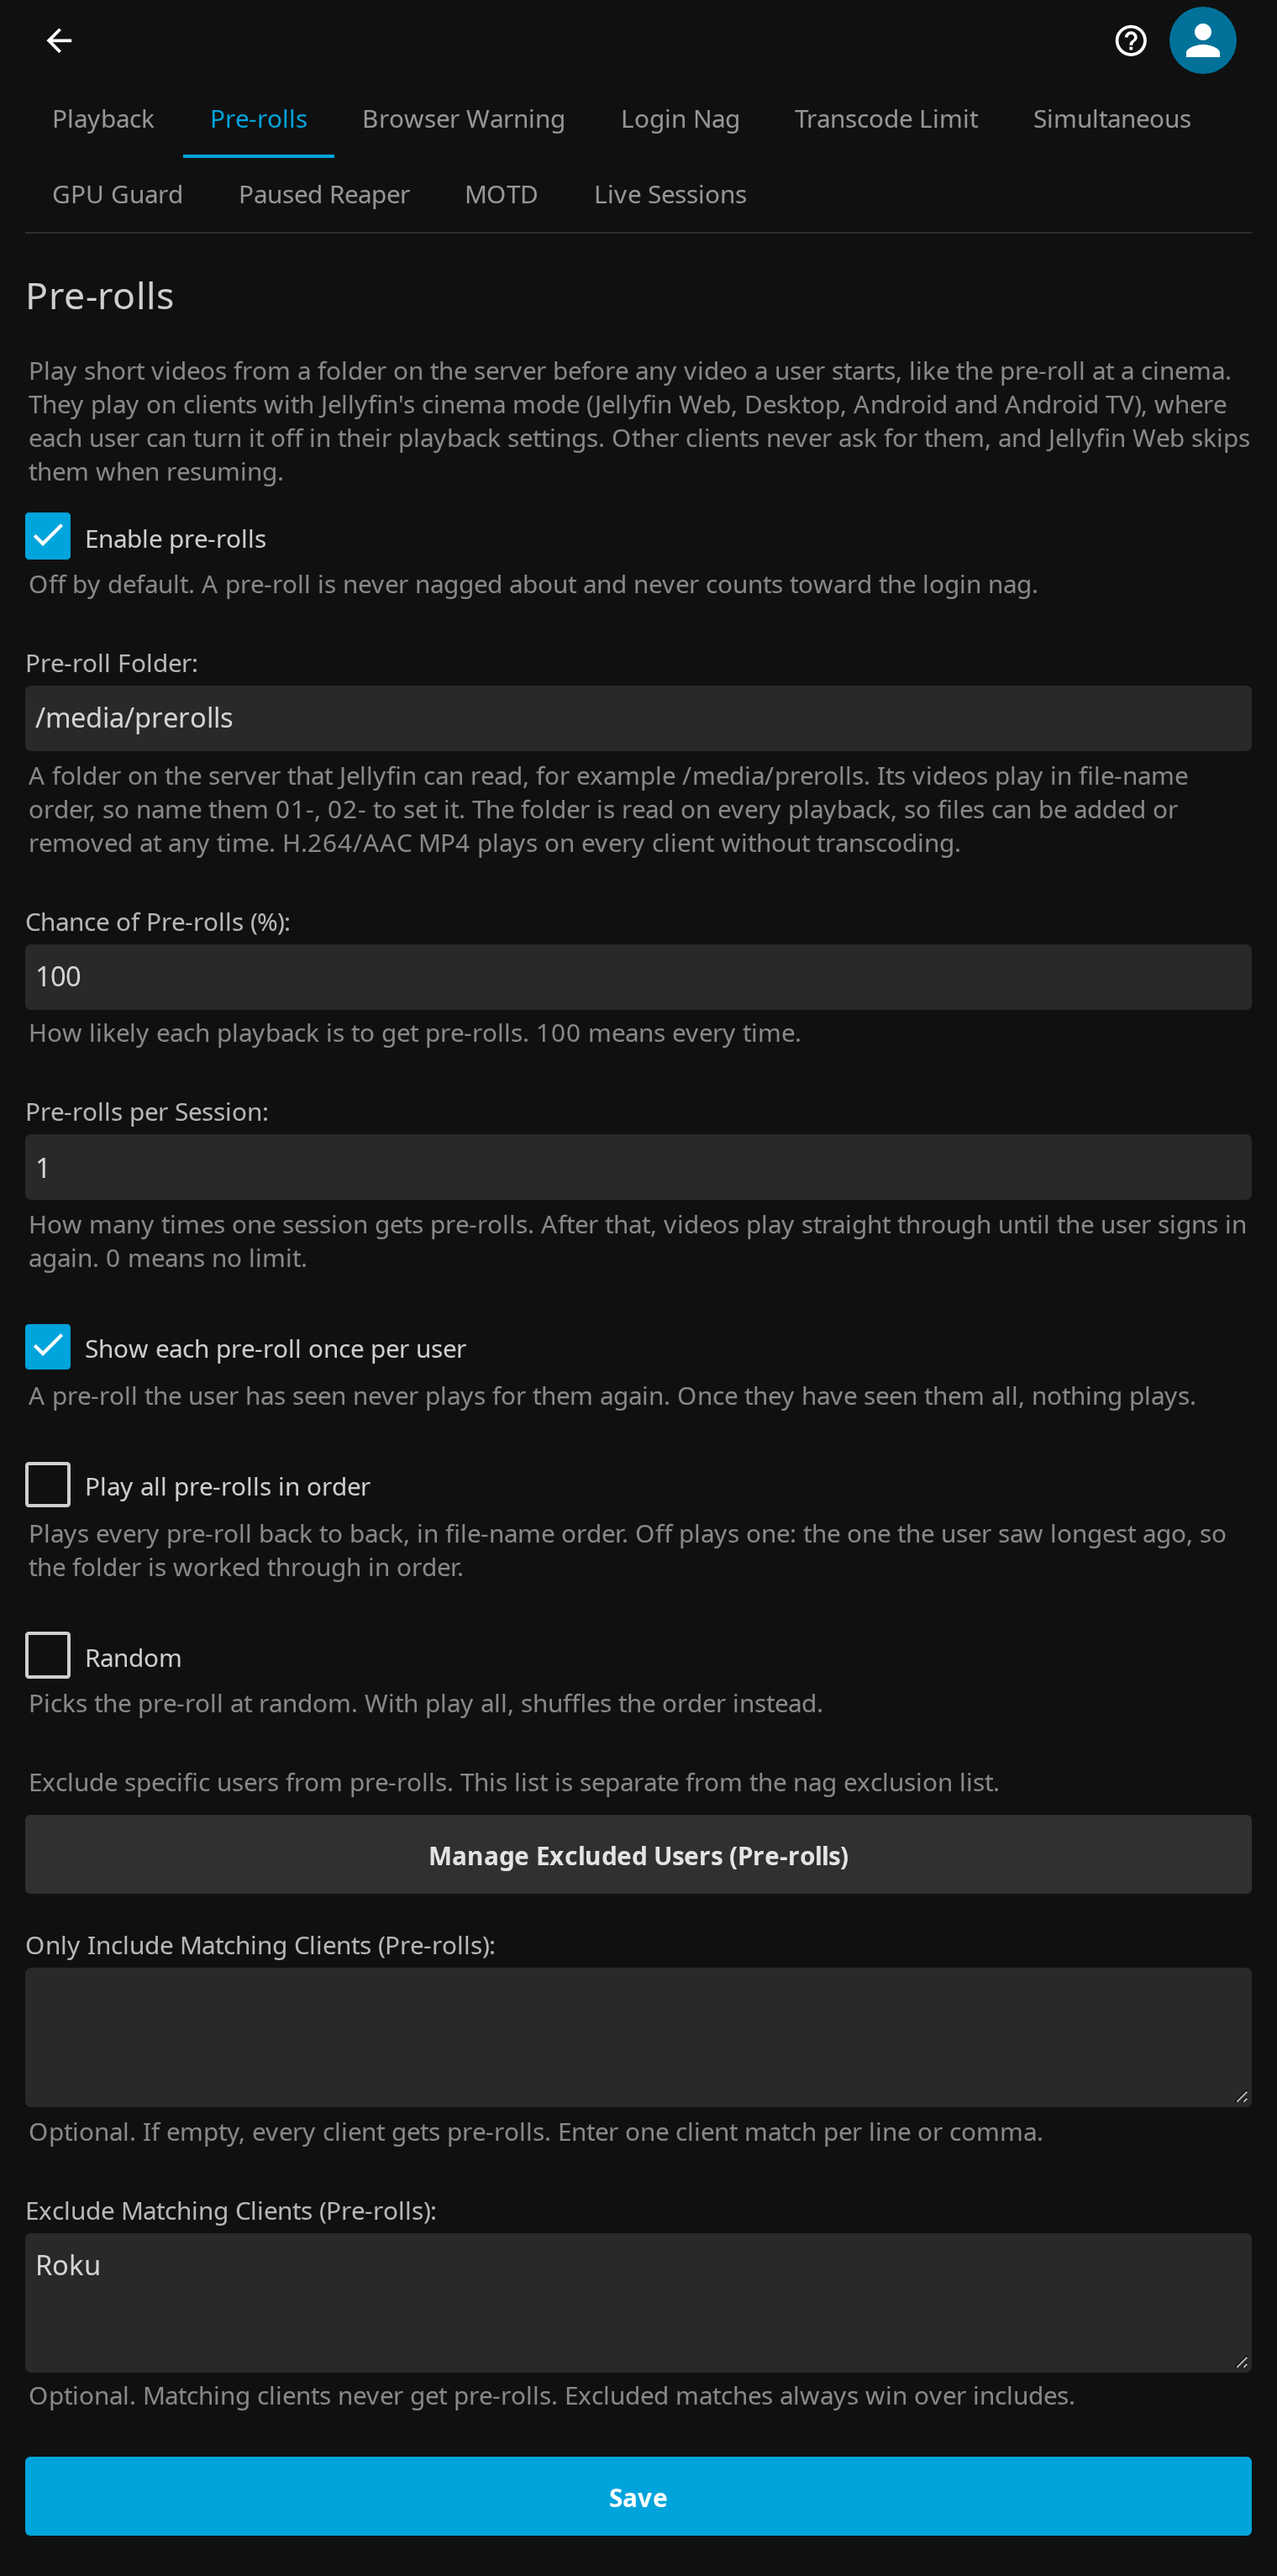
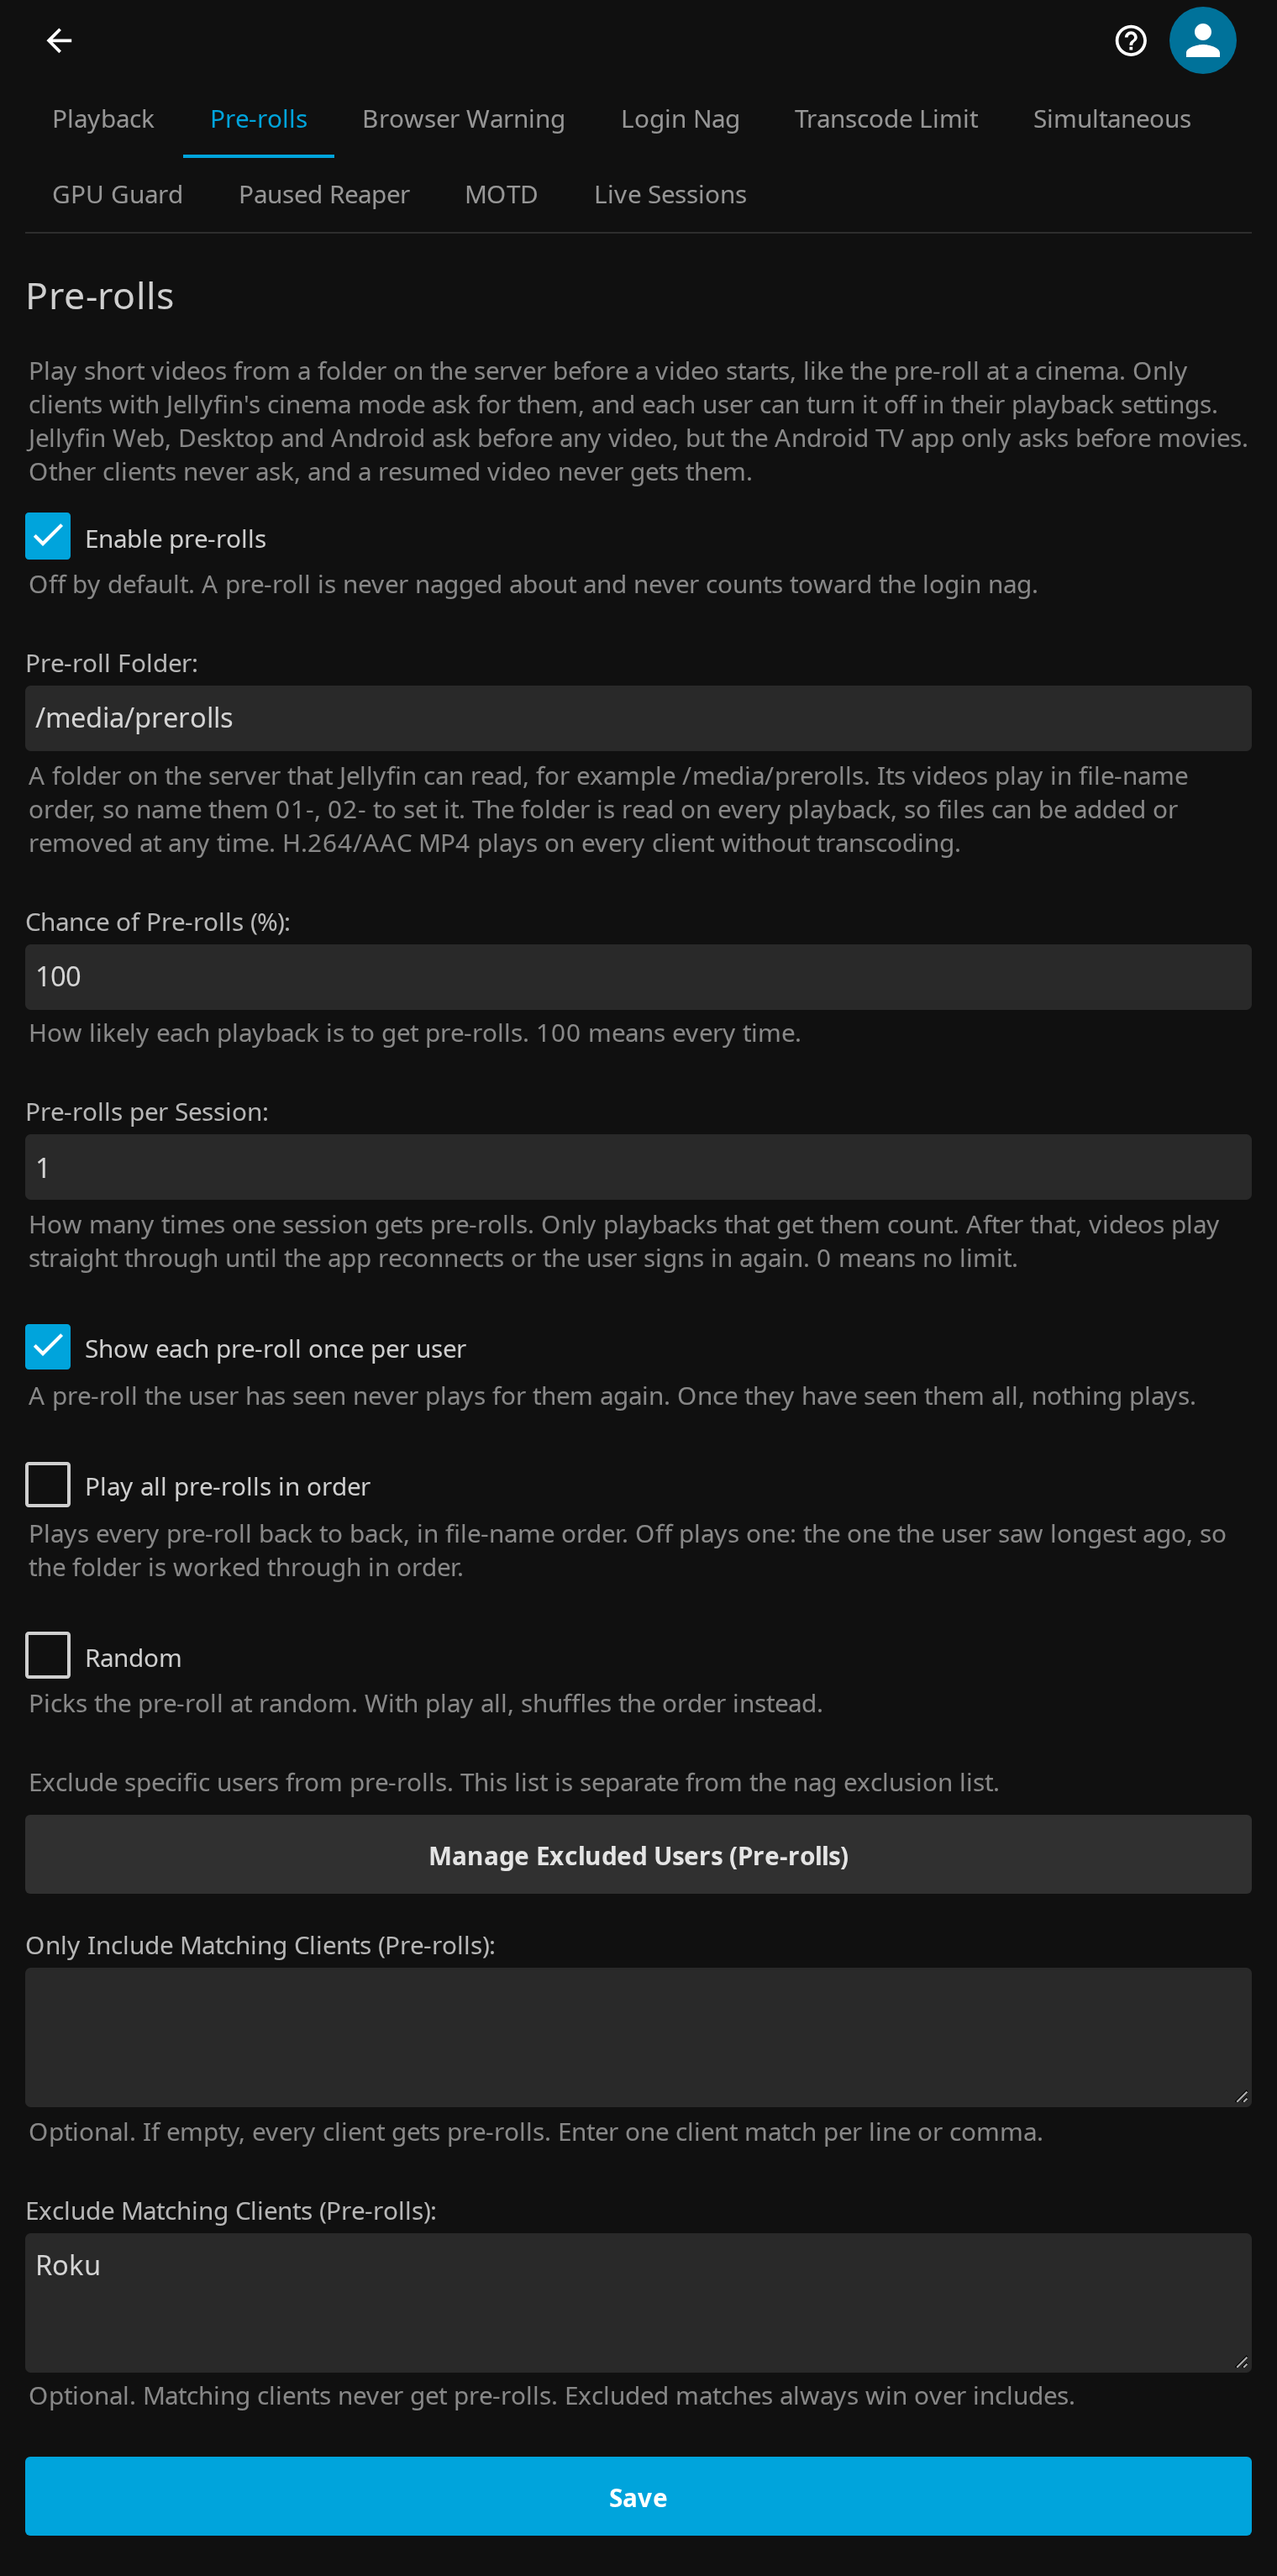
docs(prerolls): say which clients ask for pre-rolls, and when
The settings page and docs said pre-rolls play before any video on Jellyfin
Web, Desktop, Android and Android TV. Testing the Jellyfin Android TV app
(v0.20.0) on an emulator showed it only asks for intros before movies started
from the beginning, never before episodes. That is the app's own rule
(jellyfin-androidtv#2787), so the plugin is never asked.

Also say that only playbacks that get pre-rolls count toward the per-session
limit, and that the count restarts when the app reconnects, not only on a new
sign-in: force-stopping the app ended its session on the server within 5 s.

Refreshes the Pre-rolls screenshot, which shows the description.

Changed region(s): [[0.0309, 0.1239, 0.9586, 0.1859], [0.402, 0.4648, 0.9276, 0.4958], [0.0309, 0.4648, 0.1546, 0.4958]]

diff --git a/Configuration/configPage.html b/Configuration/configPage.html
@@ -179,10 +179,11 @@
                     <div class="transcodeGuardPanel" role="tabpanel" id="transcodeGuardPanelPrerolls" data-tab="prerolls" aria-labelledby="transcodeGuardTabPrerolls" hidden>
                         <h2>Pre-rolls</h2>
                         <div class="fieldDescription" style="margin-bottom: 12px;">
-                            Play short videos from a folder on the server before any video a user starts, like the
-                            pre-roll at a cinema. They play on clients with Jellyfin's cinema mode (Jellyfin Web,
-                            Desktop, Android and Android TV), where each user can turn it off in their playback
-                            settings. Other clients never ask for them, and Jellyfin Web skips them when resuming.
+                            Play short videos from a folder on the server before a video starts, like the pre-roll
+                            at a cinema. Only clients with Jellyfin's cinema mode ask for them, and each user can
+                            turn it off in their playback settings. Jellyfin Web, Desktop and Android ask before
+                            any video, but the Android TV app only asks before movies. Other clients never ask,
+                            and a resumed video never gets them.
                         </div>
 
                         <div class="checkboxContainer checkboxContainer-withDescription">
@@ -209,7 +210,7 @@
                             <div class="inputContainer">
                                 <label class="inputLabel inputLabelUnfocused" for="txtPrerollSessionLimit">Pre-rolls per Session:</label>
                                 <input type="number" id="txtPrerollSessionLimit" name="txtPrerollSessionLimit" min="0" max="1000" class="emby-input" />
-                                <div class="fieldDescription">How many times one session gets pre-rolls. After that, videos play straight through until the user signs in again. 0 means no limit.</div>
+                                <div class="fieldDescription">How many times one session gets pre-rolls. Only playbacks that get them count. After that, videos play straight through until the app reconnects or the user signs in again. 0 means no limit.</div>
                             </div>
 
                             <div class="checkboxContainer checkboxContainer-withDescription">

diff --git a/FEATURES.md b/FEATURES.md
@@ -69,23 +69,33 @@ and the transcode limit.
 
 ## Pre-rolls
 
-Short videos from a folder on the server, played before any video a user
-starts, like the pre-roll at a cinema. Point **Pre-roll Folder** at a folder
+Short videos from a folder on the server, played before a video starts, like
+the pre-roll at a cinema. Point **Pre-roll Folder** at a folder
 Jellyfin can read. Its videos play in file-name order, so `01-`, `02-` prefixes
 set it. The folder is read on every playback, so you can add or remove files at
 any time without saving anything. H.264/AAC MP4 plays on every client without a
 transcode.
 
-**Only clients with Jellyfin's cinema mode play them.** That covers Jellyfin Web,
-Desktop, Android and Android TV. Pre-rolls use Jellyfin's intro hook: the client
-asks for intros before it starts a video and plays them first. Each user can turn
-cinema mode off in their playback settings. Clients that never ask for intros
-never show pre-rolls, and Jellyfin Web skips them when resuming.
+**Only clients with Jellyfin's cinema mode play them, and each client decides
+when to ask.** Pre-rolls use Jellyfin's intro hook: the client asks for intros
+before it starts a video and plays them first. Each user can turn cinema mode
+off in their playback settings.
+
+- Jellyfin Web, Desktop and Android ask before any video, except when resuming.
+- The Android TV app asks only before movies, never before episodes, and not
+  when resuming. That is the app's own rule, tracked upstream as
+  [jellyfin-androidtv#2787](https://github.com/jellyfin/jellyfin-androidtv/issues/2787),
+  so no setting here can change it.
+- Clients that never ask for intros never show pre-rolls.
+
+Only a playback that gets pre-rolls counts toward **Pre-rolls per Session**: an
+episode on Android TV uses up nothing, while a pre-roll that was handed out
+counts even if the viewer skips it.
 
 | Setting | Default | What it does |
 | --- | --- | --- |
 | Chance of Pre-rolls (%) | 100 | How likely each playback is to get pre-rolls at all. |
-| Pre-rolls per Session | 1 | How many times one session gets pre-rolls. After that, videos play straight through until the user signs in again. 0 means no limit. |
+| Pre-rolls per Session | 1 | How many times one session gets pre-rolls. After that, videos play straight through until the app reconnects or the user signs in again. 0 means no limit. |
 | Show each pre-roll once per user | Off | A pre-roll the user has seen (started) never plays for them again. Once they have seen them all, nothing plays. |
 | Play all pre-rolls in order | Off | Plays every pre-roll back to back. Off plays one: the one the user saw longest ago, so the folder is worked through in order rather than the first file repeating. |
 | Random | Off | Picks the pre-roll at random. With play all, shuffles the order. |

diff --git a/README.md b/README.md
@@ -110,7 +110,7 @@ A Jellyfin plugin that intelligently nags users when they're transcoding due to 
 - Sends a playback nag when Jellyfin reports selected `TranscodeReasons`.
 - Ignores bitrate-only transcodes, so users lowering quality for bandwidth do not get warned.
 - Can turn the playback nag, GPU refusals and both transcode limits' blocks into a full warning with an install link for Jellyfin Web browser sessions (needs the JavaScript Injector plugin); every other client keeps the normal message.
-- Can play pre-rolls from a server folder before any video: one at a time or all in order, at random or in file order, at a set chance, a limited number of times per session, and optionally only once per user, with their own user exclusions and client filters.
+- Can play pre-rolls from a server folder before videos on cinema-mode clients (the Android TV app only asks before movies): one at a time or all in order, at random or in file order, at a set chance, a limited number of times per session, and optionally only once per user, with their own user exclusions and client filters.
 - Can exclude Live TV channel streams from playback nags and login nag history.
 - Can send a login nag when a user keeps hitting bad transcodes over the last week or month.
 - Can refuse a user's next transcode outright once that same count passes a second, higher limit, so heavy transcoders are warned before they are stopped.
